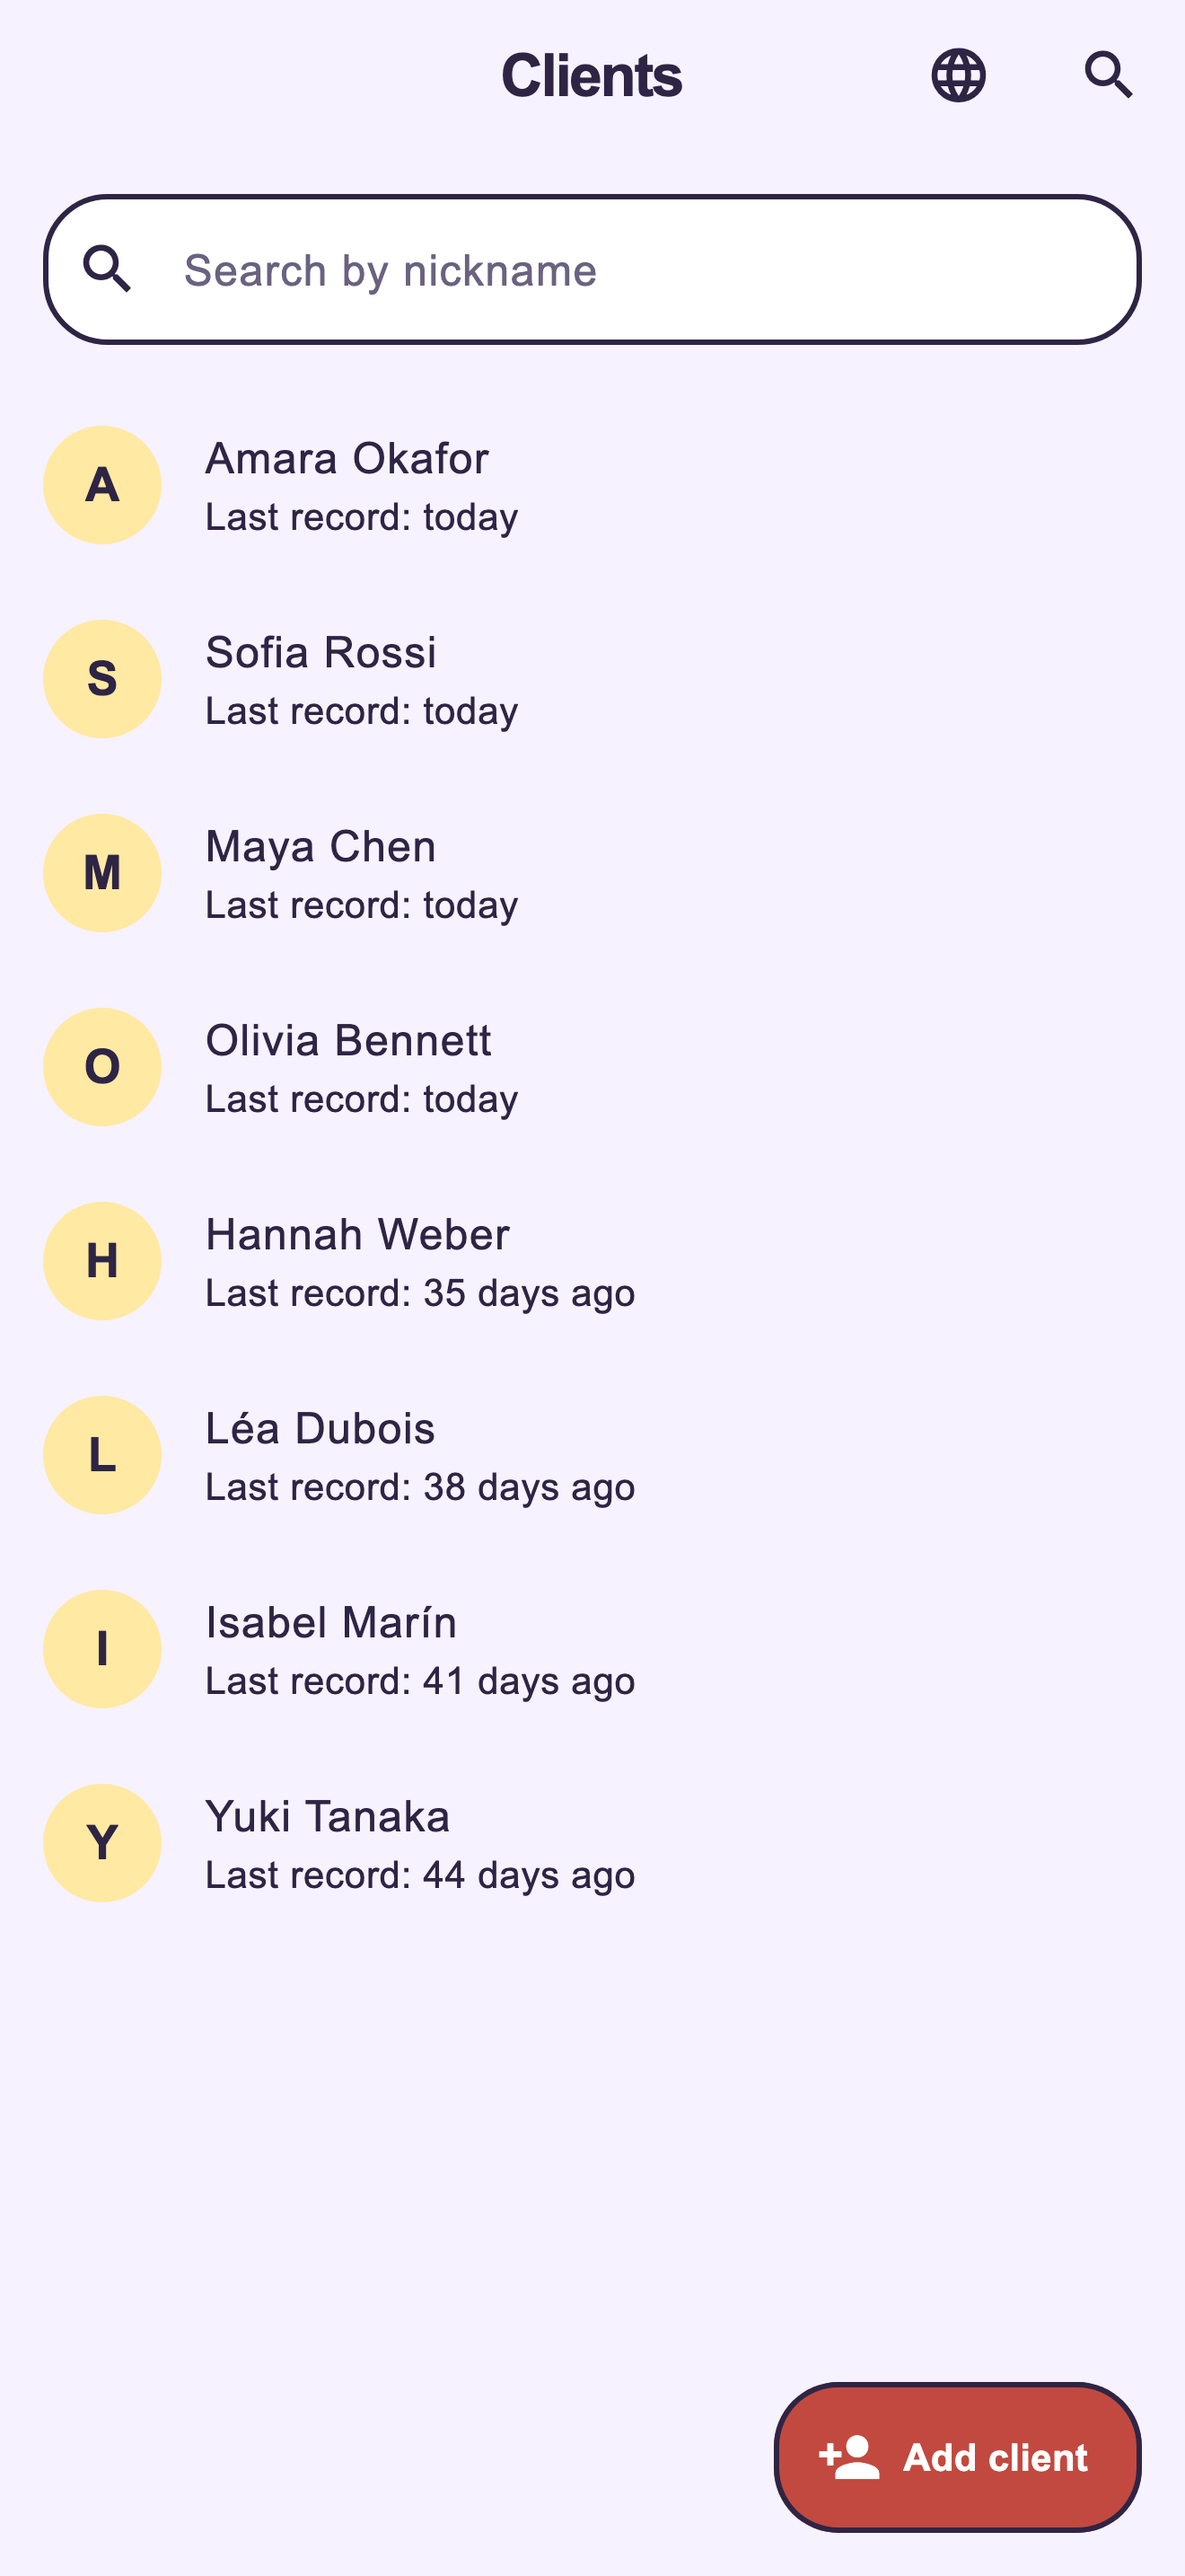
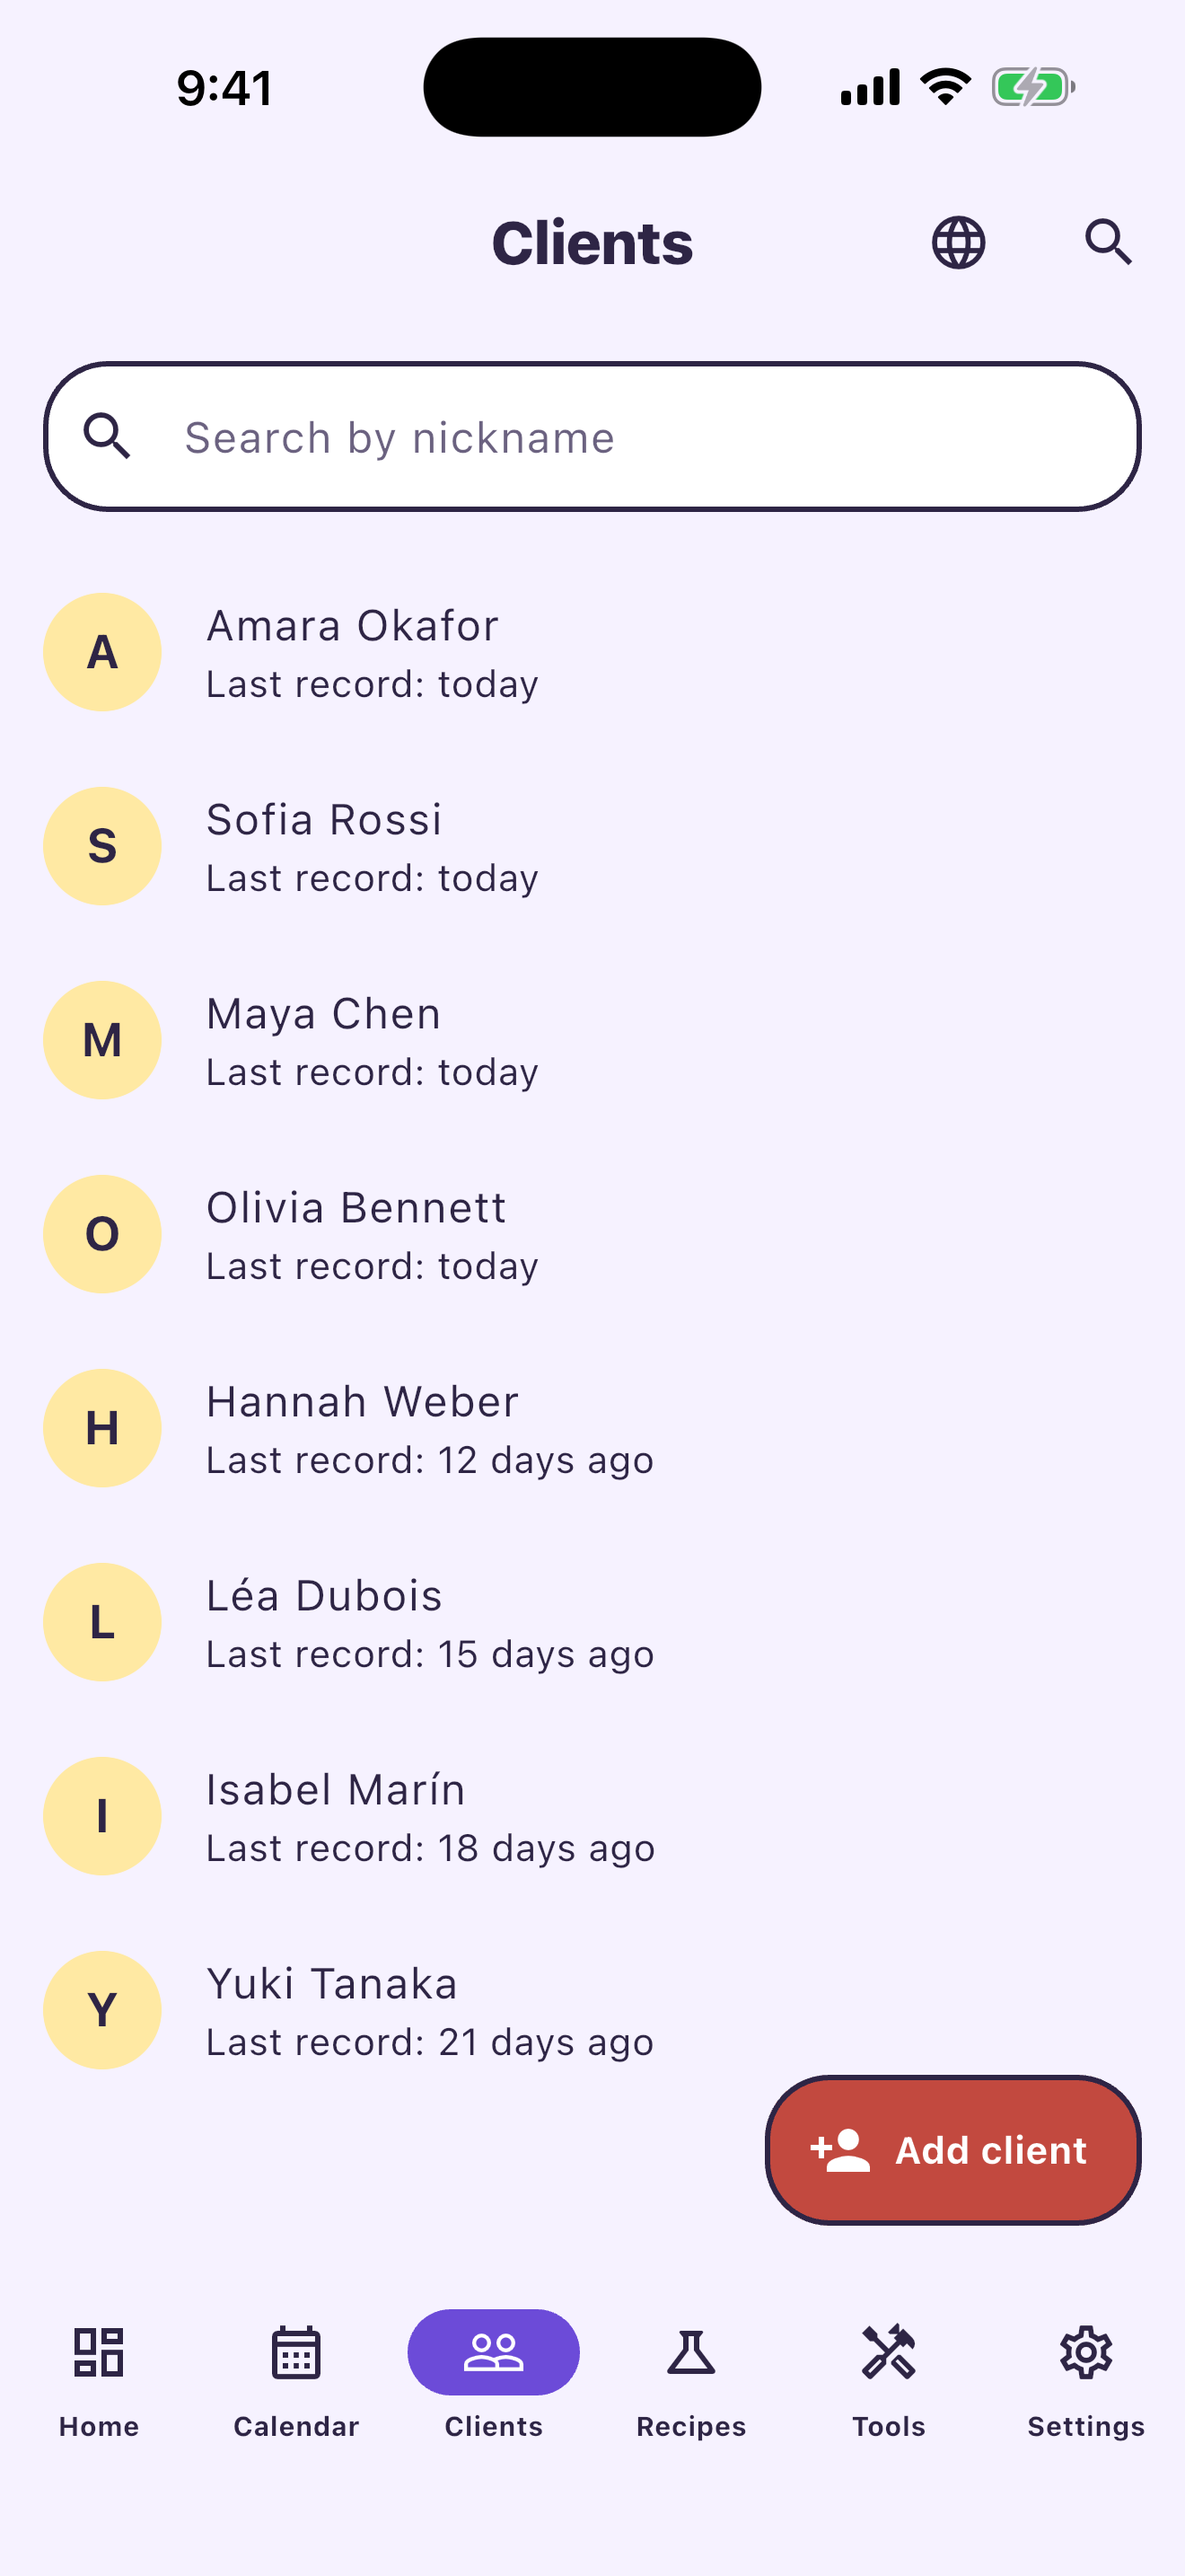
feat: 스크린샷 15장을 실제 시뮬레이터 캡처로 교체 · 언어 순서 변경
- 기기 3종 × 화면 5개. 실제 iOS 시뮬레이터에서 도는 앱을 찍었다.
  영어, 디버그 배너 없음, 알파 없는 불투명 PNG.
- 언어 우선순위를 앱 안의 목록과 같게 바꿨다:
  영 → 한 → 일 → 중 → 힌디 → 스페인 → 아랍 → 프랑스 → 포르투갈 → 러시아

diff --git a/APP_STORE_제출_작업지시서.md b/APP_STORE_제출_작업지시서.md
@@ -144,7 +144,7 @@ Capabilities는 **아무것도 켜지 마십시오** — 이 앱은 푸시도, i
 | `iphone-6.3/` | iPhone 6.3형 디스플레이 | 1206 × 2622 | 칸이 보이면 채우기 |
 | `ipad-13/` | iPad 13형 디스플레이 | 2064 × 2752 | ✅ 필수 (iPad 지원 앱) |
 
-각 폴더에 **네 장**이 들어 있습니다.
+각 폴더에 **다섯 장**이 들어 있습니다.
 
 | 파일 | 화면 |
 |---|---|
@@ -152,11 +152,15 @@ Capabilities는 **아무것도 켜지 마십시오** — 이 앱은 푸시도, i
 | `02-recipes.png` | 저장된 배합 |
 | `03-calendar.png` | 시술 달력 |
 | `04-tools.png` | 도구 (순서도·목표판·환산기) |
+| `05-dashboard.png` | 홈 — 오늘 기록과 최근 손님 |
+
+모두 **실제 iOS 시뮬레이터에서 도는 앱**을 찍은 것입니다. 기기 상태 표시줄이
+그대로 들어 있고, 언어는 영어, 디버그 배너는 없습니다.
 
 세 폴더 모두 **알파 채널 없는 불투명 PNG**이고 해상도를 검사해 두었습니다.
 알파가 있으면 업로드가 거부되는데, 그 지점은 이미 처리했습니다.
 
-**올리는 방법:** 각 칸에 해당 폴더의 PNG를 **파일 이름 순서(01 → 04) 그대로** 끌어다 놓으십시오.
+**올리는 방법:** 각 칸에 해당 폴더의 PNG를 **파일 이름 순서(01 → 05) 그대로** 끌어다 놓으십시오.
 순서가 App Store에 보이는 순서입니다.
 
 **주의할 점**
@@ -181,18 +185,22 @@ Capabilities는 **아무것도 켜지 마십시오** — 이 앱은 푸시도, i
 **영어가 기본 언어(1번)이고, 나머지는 미용 인구가 많은 시장 순서입니다.**
 위에서부터 채우십시오. 중간에 시간이 끊겨도 위쪽이 더 중요한 시장입니다.
 
-| 순 | App Store Connect에서 고를 이름 | 폴더 | 왜 이 순서인가 |
+| 순 | App Store Connect에서 고를 이름 | 폴더 | 왜 이 자리인가 |
 |---|---|---|---|
 | 1 | **English (U.S.)** ★기본 | `en-US/` | 기본 언어. 번역이 없는 모든 지역이 이것을 봅니다 |
-| 2 | **Chinese (Simplified)** | `zh-Hans/` | 중국·싱가포르. 단일 언어 기준 최대 미용 인구 |
-| 3 | **Hindi** | `hi/` | 인도. 세계 2위 인구, 미용실 종사자 수 최상위권 |
-| 4 | **Spanish (Spain)** | `es-ES/` | 중남미 전역 + 스페인. 20여 개국 공용 |
-| 5 | **Arabic** | `ar-SA/` | 중동·북아프리카 22개국. 미용 지출 비중이 매우 높음 |
-| 6 | **Portuguese (Brazil)** | `pt-BR/` | 브라질. 세계 2~3위 규모의 미용 시장 |
-| 7 | **Russian** | `ru/` | 러시아·중앙아시아 |
-| 8 | **Japanese** | `ja/` | 일본. 1인당 미용실 밀도 세계 최고 수준 |
-| 9 | **Korean** | `ko/` | 한국. 개발자의 모국 시장 |
-| 10 | **French (France)** | `fr-FR/` | 프랑스·벨기에·스위스·서아프리카 |
+| 2 | **Korean** | `ko/` | 앱이 태어난 시장. 앱 안의 언어 목록도 같은 순서입니다 |
+| 3 | **Japanese** | `ja/` | 1인당 미용실 밀도가 세계 최고 수준 |
+| 4 | **Chinese (Simplified)** | `zh-Hans/` | 세계 2위 뷰티 시장 |
+| 5 | **Hindi** | `hi/` | 인도. 살롱이 가장 빠르게 느는 곳 |
+| 6 | **Spanish (Spain)** | `es-ES/` | 스페인·중남미 20여 개국 |
+| 7 | **Arabic** | `ar-SA/` | 걸프 지역. 1인당 미용 지출 최상위 |
+| 8 | **French (France)** | `fr-FR/` | 프랑스. 살롱 문화의 본산 |
+| 9 | **Portuguese (Brazil)** | `pt-BR/` | 브라질. 모발 시술의 중심 |
+| 10 | **Russian** | `ru/` | 러시아·중앙아시아 |
+
+> 이 순서는 앱 안의 언어 목록(`lib/app/locale_controller.dart`)과 **같습니다.**
+> App Store Connect 화면에서는 언어가 알파벳순으로 표시되므로, 이 순서는
+> "어느 것부터 채우는가"의 우선순위입니다. 중간에 작업이 끊겨도 위쪽이 더 중요합니다.
 
 > Spanish는 `Spanish (Spain)`을 고르십시오. `Spanish (Mexico)`가 따로 있지만 하나만 넣으면 충분합니다.
 > Chinese는 반드시 **Simplified**입니다. 앱이 담고 있는 번역이 간체입니다.
